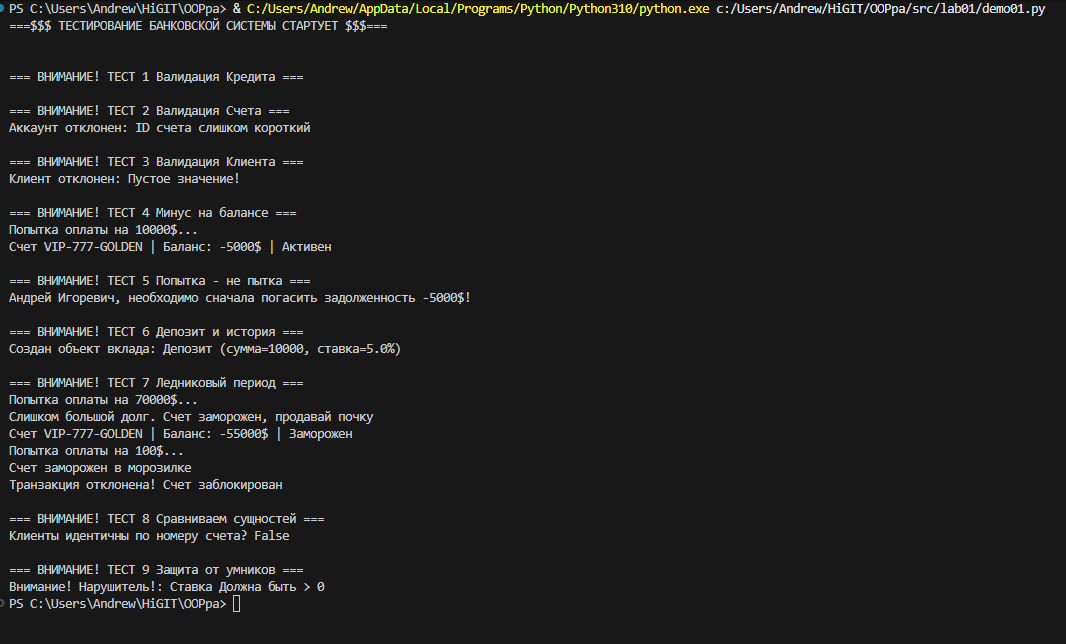
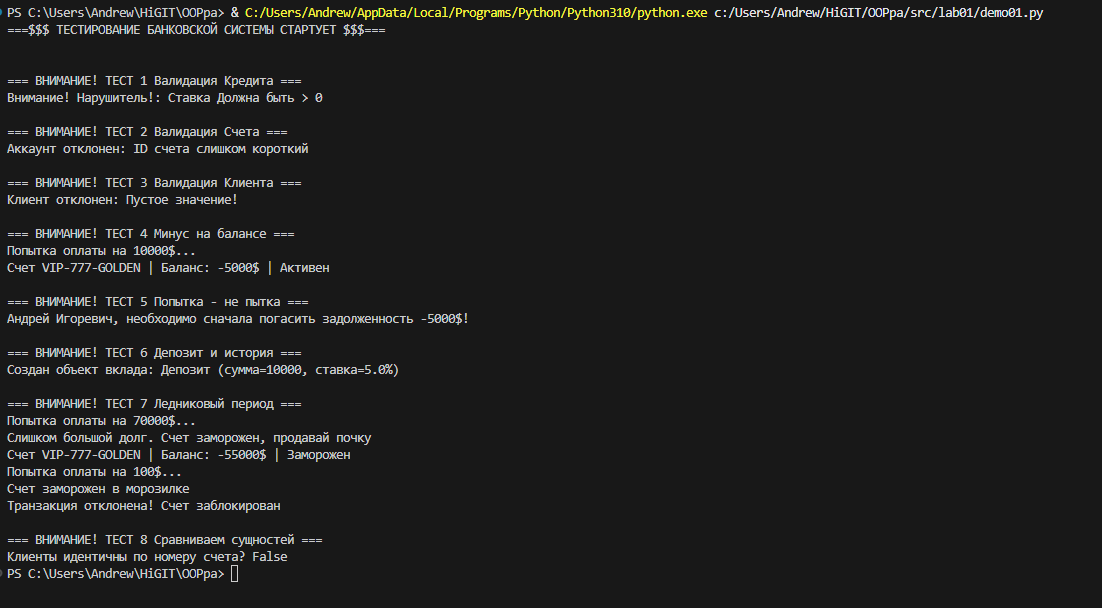
ya hoooooo yeu

Changed region(s): [[0.0, 0.0938, 0.4334, 0.8438], [0.0, 0.0, 0.9906, 0.0625], [0.0, 0.875, 0.3096, 0.9688]]

diff --git a/src/lab01/demo01.py b/src/lab01/demo01.py
@@ -4,10 +4,11 @@ def run_full_test():
     print(f"===$$$ ТЕСТИРОВАНИЕ БАНКОВСКОЙ СИСТЕМЫ СТАРТУЕТ $$$=== \n")
 
     print("\n=== ВНИМАНИЕ! ТЕСТ 1 Валидация Кредита ===")
+    c = Credit(1000, 10)
     try:
-        bad_credit = Credit(1000, -5)
+        c.rate = -100 # кривая ставка
     except ValueError as e:
-        print(f"Кредит отклонен: {e}")
+        print(f"Внимание! Нарушитель!: {e}")
 
     print("\n=== ВНИМАНИЕ! ТЕСТ 2 Валидация Счета ===")
     try:
@@ -47,12 +48,7 @@ def run_full_test():
     another_user = Client("Андрей Игоревич", another_acc)
     print(f"Клиенты идентичны по номеру счета? {user == another_user}")
 
-    print("\n=== ВНИМАНИЕ! ТЕСТ 9 Защита от умников ===")
-    c = Credit(1000, 10)
-    try:
-        c.rate = -100 # кривая ставка
-    except ValueError as e:
-        print(f"Внимание! Нарушитель!: {e}")
+    
 
 
 if __name__ == "__main__":
